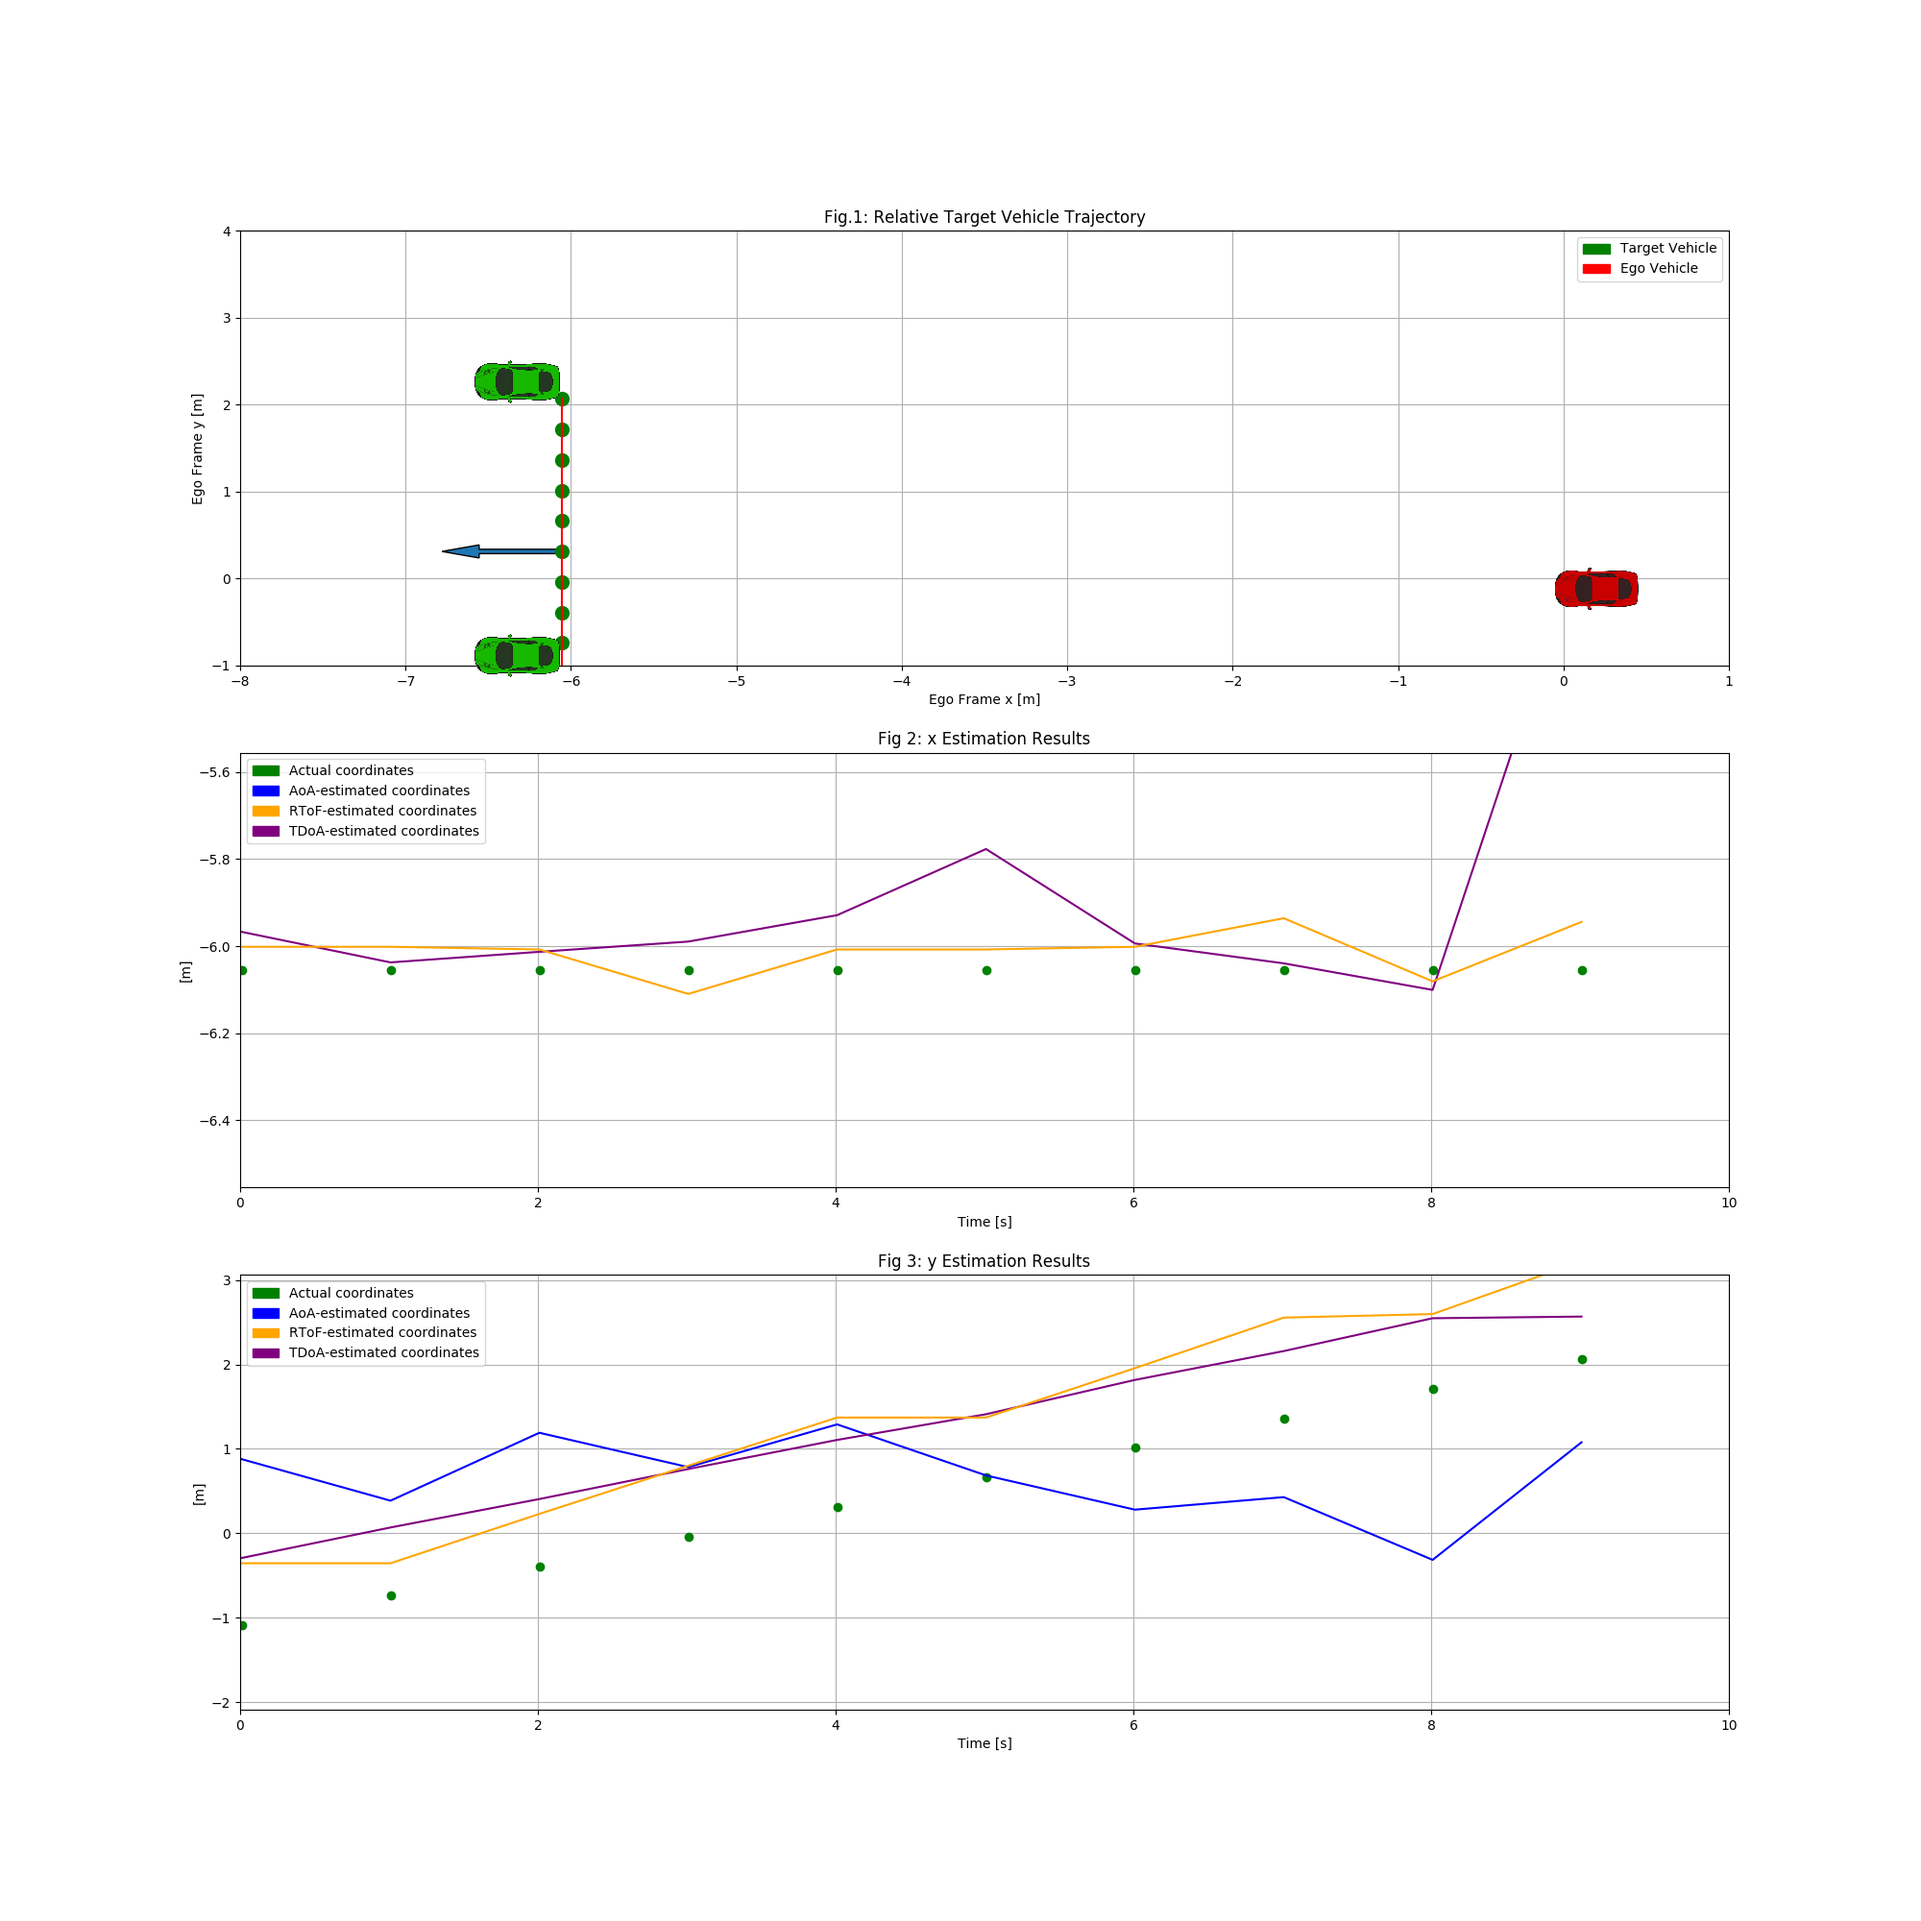
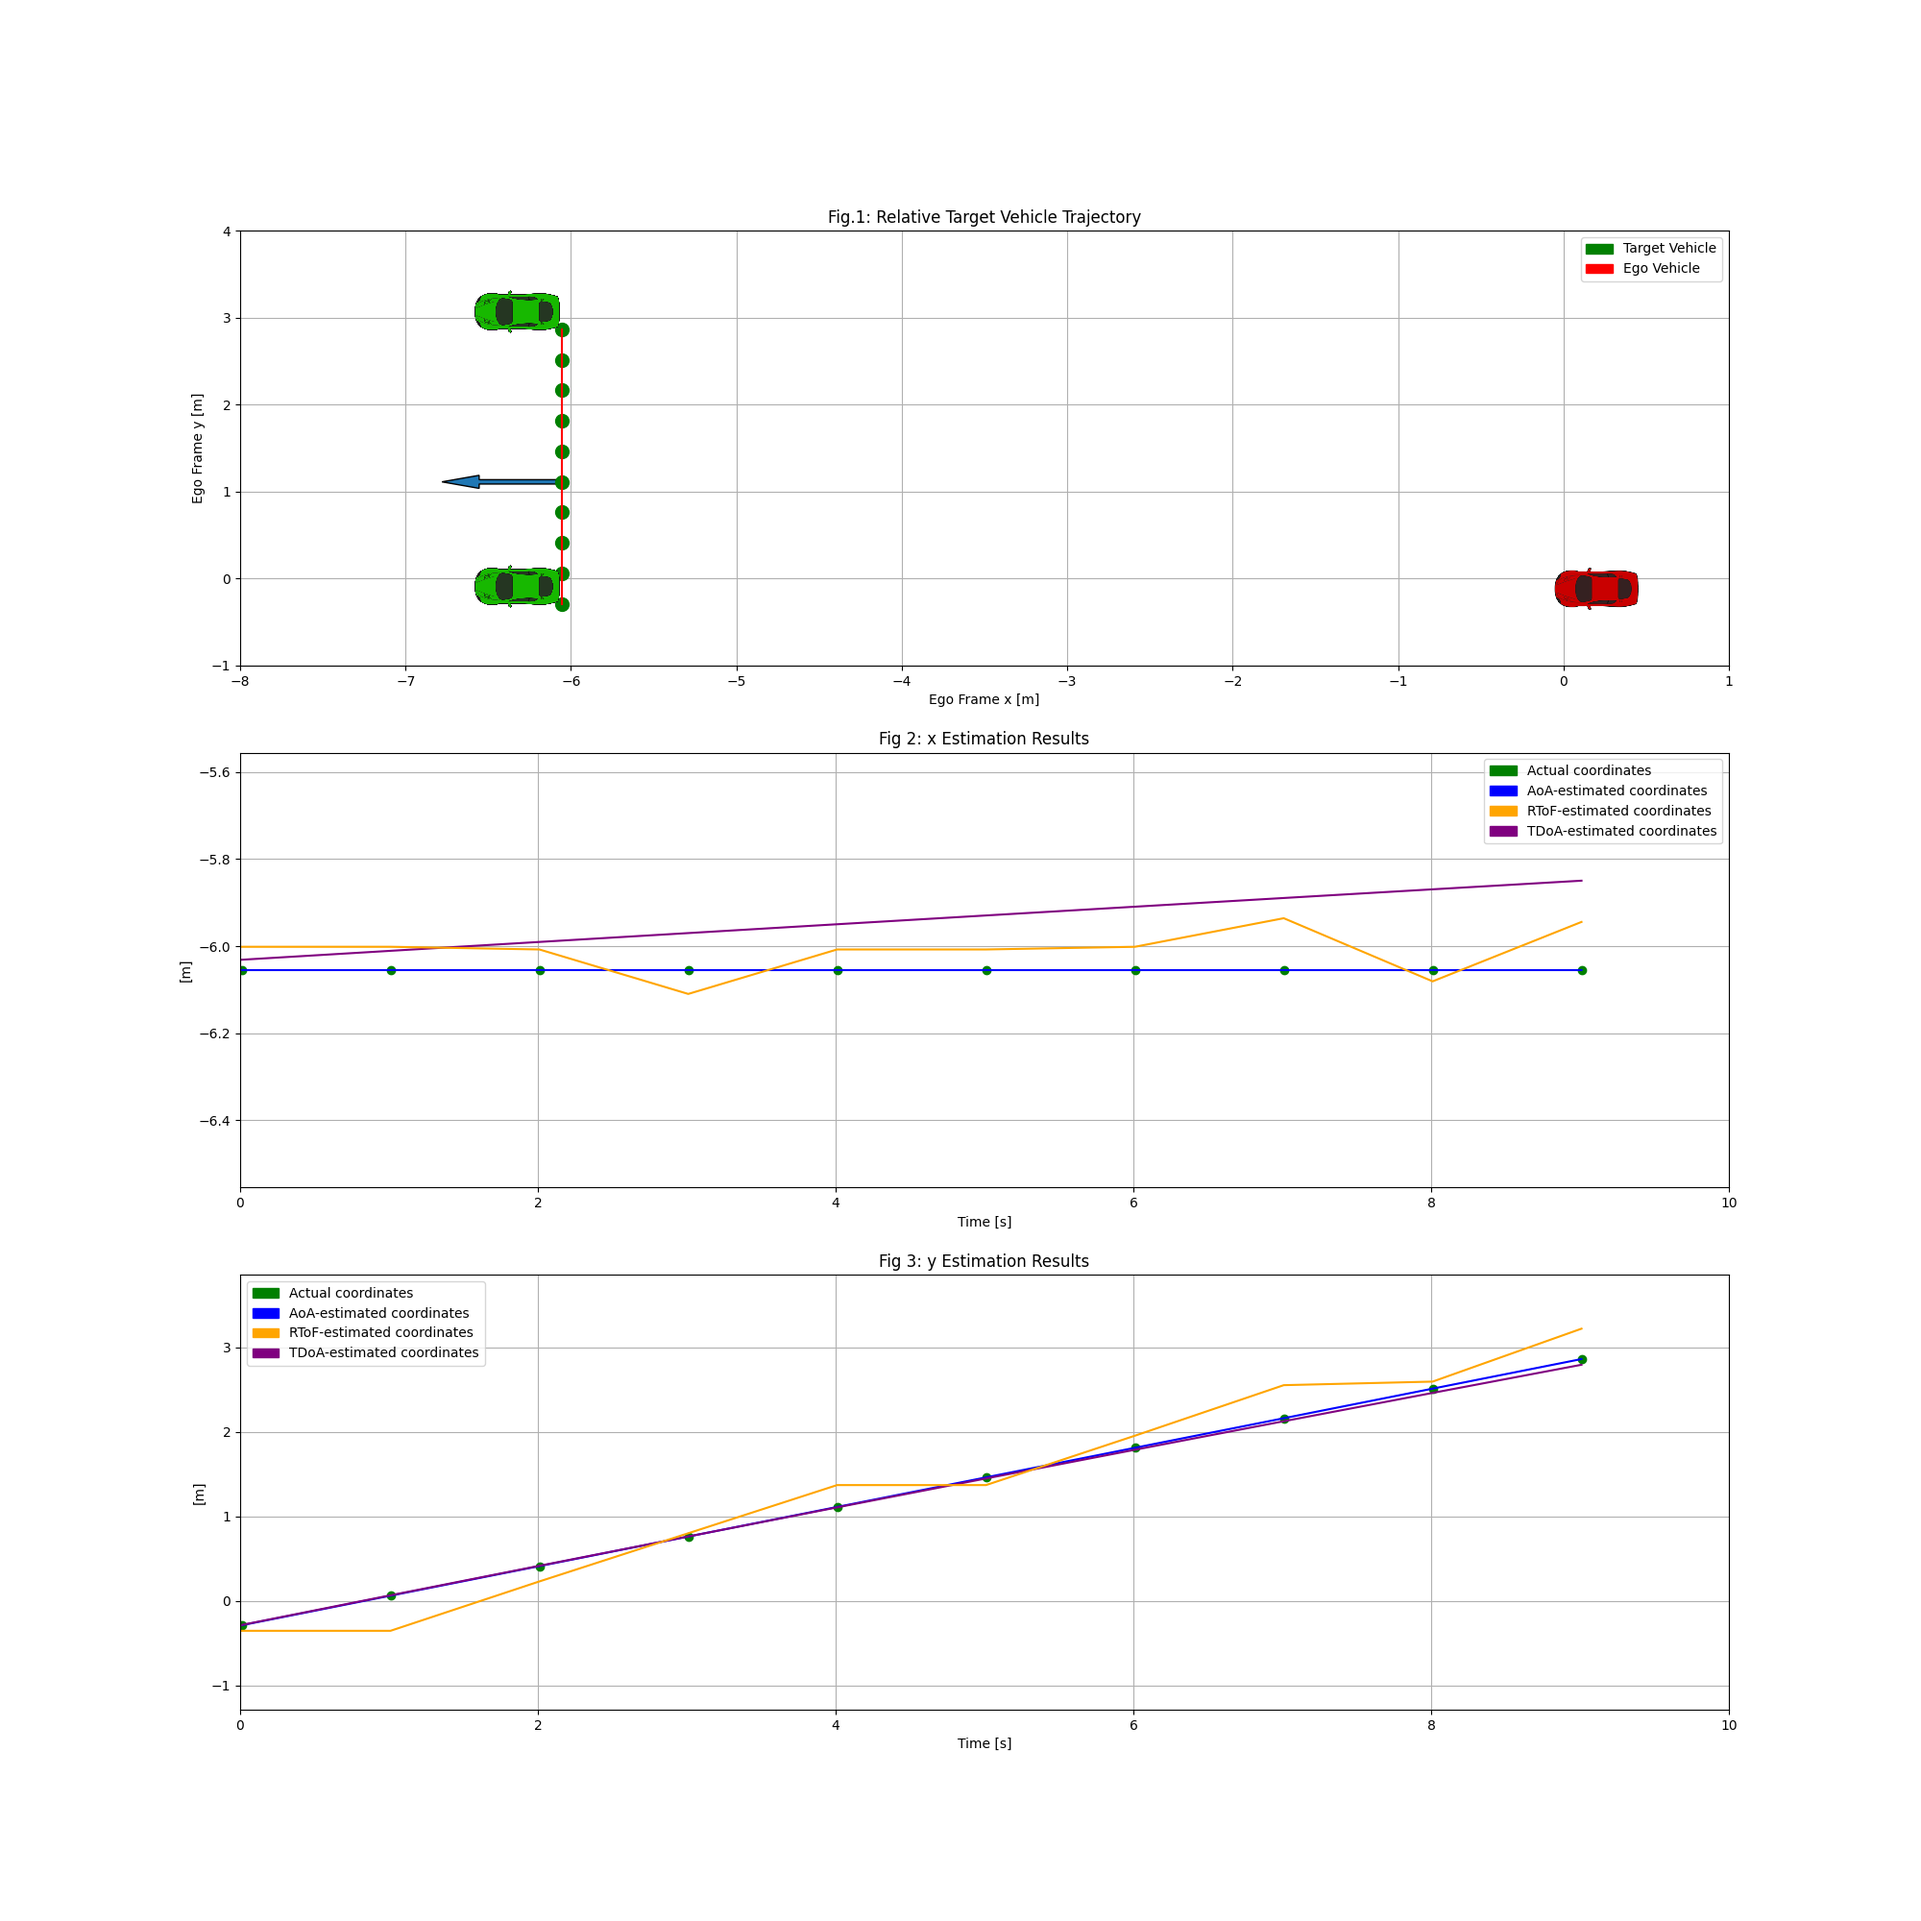
changed AoA method theta calculation from degree to radian and changed coordinate negation

diff --git a/generate_simulation_data.py b/generate_simulation_data.py
@@ -62,14 +62,14 @@ for i in range(len(data_names)):
     L_ego = data['vehicle']['ego']['width']
 
     tgt_tx1_x = -1 * data['vehicle']['target_relative']['tx1_qrx4']['y'][::dp]
-    tgt_tx1_y = data['vehicle']['target_relative']['tx1_qrx4']['x'][::dp] - L_ego / 2
+    tgt_tx1_y = data['vehicle']['target_relative']['tx1_qrx4']['x'][::dp] #+ L_ego / 2
     tgt_tx2_x = -1 * data['vehicle']['target_relative']['tx2_qrx3']['y'][::dp]
-    tgt_tx2_y = data['vehicle']['target_relative']['tx2_qrx3']['x'][::dp] - L_ego / 2
+    tgt_tx2_y = data['vehicle']['target_relative']['tx2_qrx3']['x'][::dp] #+ L_ego / 2
 
     ego_qrx1_x = np.zeros(len(tgt_tx1_x))
-    ego_qrx1_y = np.zeros(len(tgt_tx1_x)) # - L_ego / 2
+    ego_qrx1_y = np.zeros(len(tgt_tx1_x))  - L_ego / 2
     ego_qrx2_x = np.zeros(len(tgt_tx1_x))
-    ego_qrx2_y = np.zeros(len(tgt_tx1_x)) + L_ego # / 2
+    ego_qrx2_y = np.zeros(len(tgt_tx1_x)) + L_ego  / 2
 
     # delay parameters
     delay_11 = data['channel']['qrx1']['delay']['tx1'][::dp]
@@ -135,6 +135,7 @@ for i in range(len(data_names)):
         noise_var4 = p_r4 * p_r_factor + remaining_factor
         noise_variance = np.array([[noise_var1, noise_var2], [noise_var3, noise_var4]])
 
+        noise_variance = np.array([[0.0, 0.0], [0.0, 0.0]])
         rem_fact_soner = I_bg * i_bg_factor + T * (t_factor1 + t_factor2 / 16)
         noise_var1_soner = np.array([H_q[0][0][0] * p_r_factor + rem_fact_soner, H_q[0][0][1] * p_r_factor + rem_fact_soner,
                                H_q[0][0][2] * p_r_factor + rem_fact_soner, H_q[0][0][3] * p_r_factor + rem_fact_soner])
@@ -145,6 +146,7 @@ for i in range(len(data_names)):
         noise_var4_soner = np.array([H_q[1][1][0] * p_r_factor + rem_fact_soner, H_q[1][1][1] * p_r_factor + rem_fact_soner,
                                H_q[1][1][2] * p_r_factor + rem_fact_soner, H_q[1][1][3] * p_r_factor + rem_fact_soner])
         noise_variance_soner = np.array([[noise_var1_soner, noise_var2_soner], [noise_var3_soner, noise_var4_soner]])
+        noise_variance_soner = np.array([[[0.0,0.0,0.0,0.0], [0.0,0.0,0.0,0.0]], [[0.0,0.0,0.0,0.0], [0.0,0.0,0.0,0.0]]])
         #print("delays", delays)
         #print("H", H)
         #print("noise", noise_variance)
@@ -152,15 +154,15 @@ for i in range(len(data_names)):
         # making estimations
         tx_aoa = aoa.estimate(delays=delays, H_q=H_q, noise_variance=noise_variance_soner)
         print("AoA finished")
-        #tx_rtof = rtof.estimate(all_delays=delays, H=H, noise_variance=noise_variance)
-        #print("RToF finished")
+        tx_rtof = rtof.estimate(all_delays=delays, H=H, noise_variance=noise_variance)
+        print("RToF finished")
         tx_tdoa = tdoa.estimate(delays=delays, H=H, noise_variance=noise_variance)
         print("TDoA finished")
         # storing to plot later
         x_pose[i] = tx_aoa[0]
         y_pose[i] = tx_aoa[1]
-        #x_becha[i] = tx_rtof[0]
-        #y_becha[i] = tx_rtof[1]  # - L_ego / 2
+        x_becha[i] = tx_rtof[0]
+        y_becha[i] = tx_rtof[1]  # - L_ego / 2
         x_roberts[i] = tx_tdoa[0]
         y_roberts[i] = tx_tdoa[1] #  - L_ego / 2
     ## In[2]:
@@ -172,12 +174,12 @@ for i in range(len(data_names)):
 
     np.savetxt('GUI_data/'+data_point+folder_name+'x.txt', x, delimiter=',')
     np.savetxt('GUI_data/'+data_point+folder_name+'x_pose.txt', x_pose, delimiter=',')
-    #np.savetxt('GUI_data/'+data_point+folder_name+'x_becha.txt', x_becha, delimiter=',')
+    np.savetxt('GUI_data/'+data_point+folder_name+'x_becha.txt', x_becha, delimiter=',')
     np.savetxt('GUI_data/'+data_point+folder_name+'x_roberts.txt', x_roberts, delimiter=',')
     np.savetxt('GUI_data/'+data_point+folder_name+'x_data.txt', x_data, delimiter=',')
     np.savetxt('GUI_data/'+data_point+folder_name+'y.txt', y, delimiter=',')
     np.savetxt('GUI_data/'+data_point+folder_name+'y_data.txt', y_data, delimiter=',')
-   # np.savetxt('GUI_data/'+data_point+folder_name+'/y_becha.txt', y_becha, delimiter=',')
+    np.savetxt('GUI_data/'+data_point+folder_name+'/y_becha.txt', y_becha, delimiter=',')
     np.savetxt('GUI_data/'+data_point+folder_name+'y_roberts.txt', y_roberts, delimiter=',')
     np.savetxt('GUI_data/'+data_point+folder_name+'y_pose.txt', y_pose, delimiter=',')
     np.savetxt('GUI_data/'+data_point+folder_name+'time.txt', time_, delimiter=',')

diff --git a/VLP_methods/aoa.py b/VLP_methods/aoa.py
@@ -156,12 +156,12 @@ class AoA:
         phi_h_s2[1] = ((eps_b_s2[1] + eps_d_s2[1]) - (eps_a_s2[1] + eps_c_s2[1])) / (
                 eps_a_s2[1] + eps_b_s2[1] + eps_c_s2[1] + eps_d_s2[1])
 
-        theta_l_r[0][0] = self.transfer_function(phi_h_s1[0])
-        theta_l_r[0][1] = self.transfer_function(phi_h_s1[1])
-        theta_l_r[1][0] = self.transfer_function(phi_h_s2[0])
-        theta_l_r[1][1] = self.transfer_function(phi_h_s2[1])
+        theta_l_r[0][0] = self.transfer_function(phi_h_s1[0]) * np.pi / 180
+        theta_l_r[0][1] = self.transfer_function(phi_h_s1[1]) * np.pi / 180
+        theta_l_r[1][0] = self.transfer_function(phi_h_s2[0]) * np.pi / 180
+        theta_l_r[1][1] = self.transfer_function(phi_h_s2[1]) * np.pi / 180
 
-        print(theta_l_r)
+        #print(theta_l_r)
         # %%
 
         diff_1 = theta_l_r[0][0] - theta_l_r[0][1]
@@ -206,10 +206,10 @@ class AoA:
 
     def change_cords(self, txpos):
         t_tx_pos = np.copy(txpos)
-        t_tx_pos[0][0] = txpos[0][1]
-        t_tx_pos[1][0] = (-1 * txpos[0][0])
-        t_tx_pos[0][1] = txpos[1][1]
-        t_tx_pos[1][1] = (-1 * txpos[1][0])
+        t_tx_pos[0][0] = -txpos[0][1]
+        t_tx_pos[1][0] = txpos[0][0]
+        t_tx_pos[0][1] = -txpos[1][1]
+        t_tx_pos[1][1] = txpos[1][0]
         return t_tx_pos
 
 # %%
